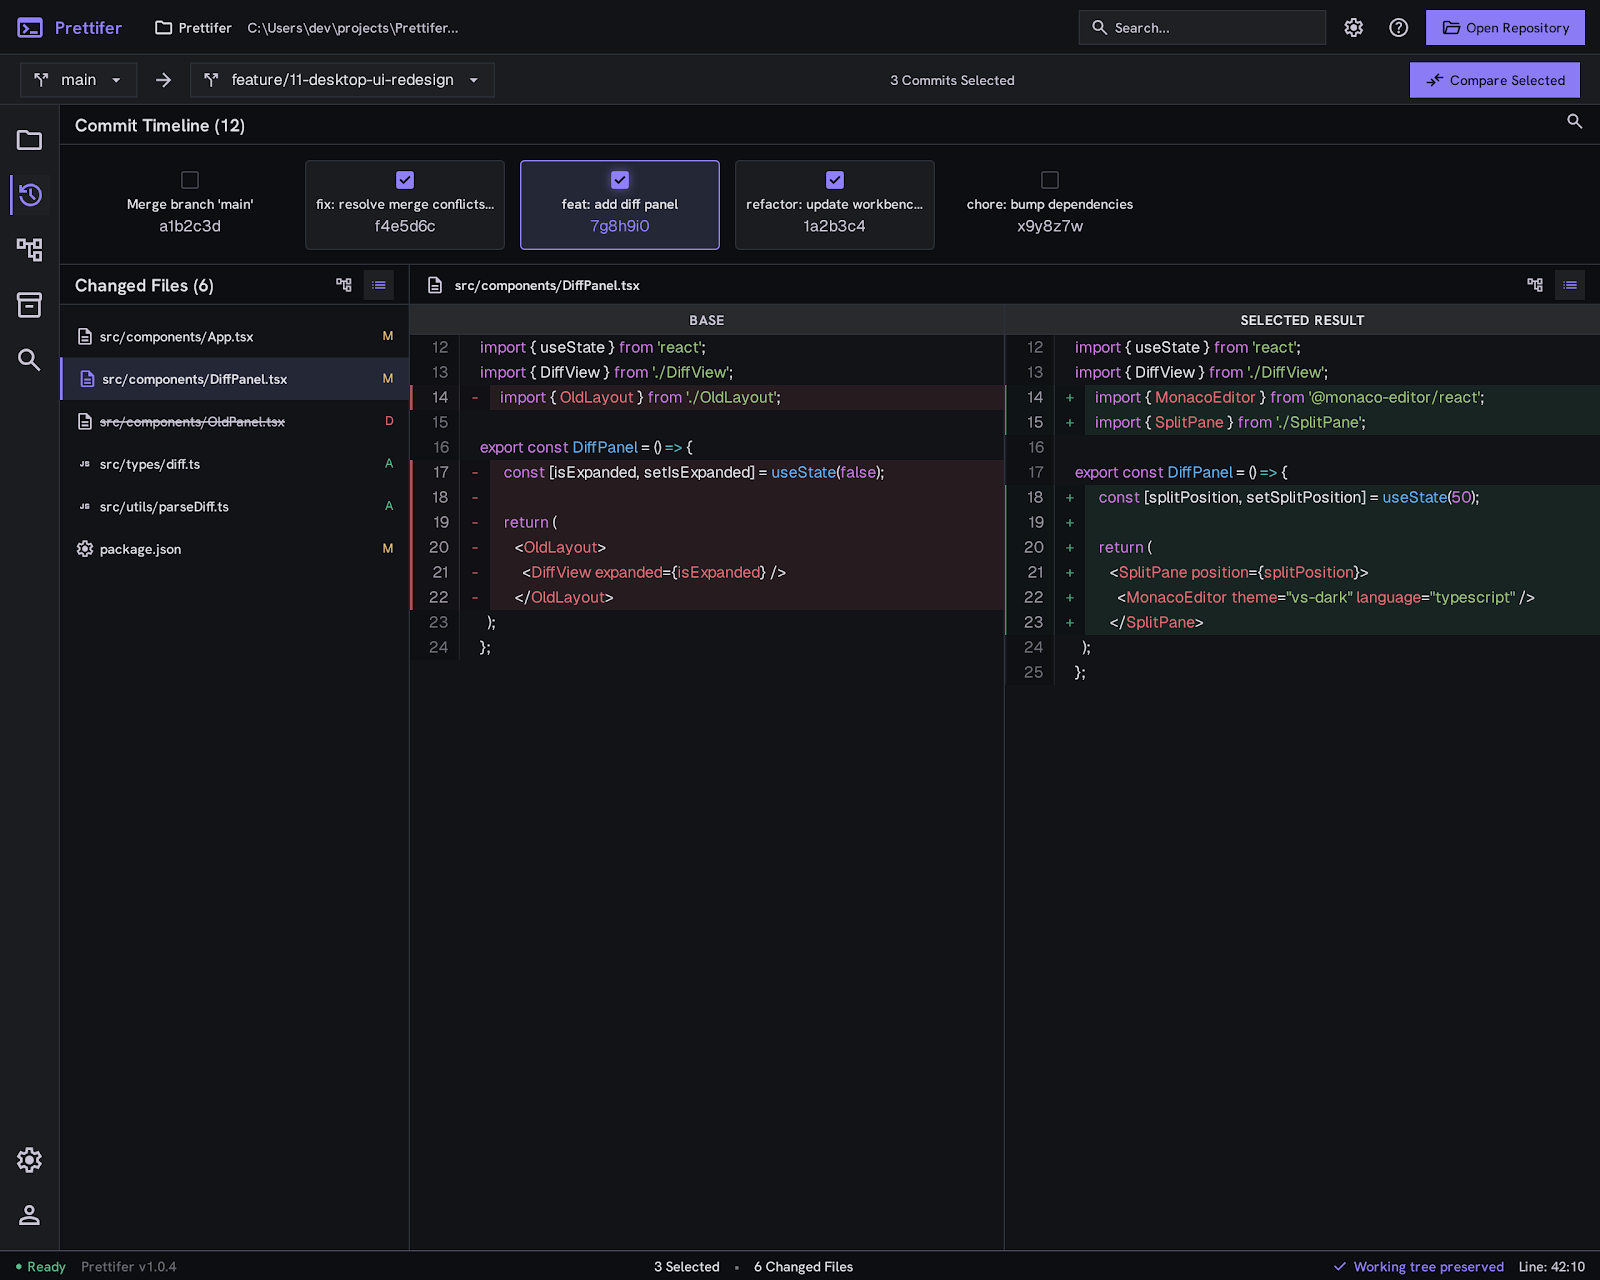
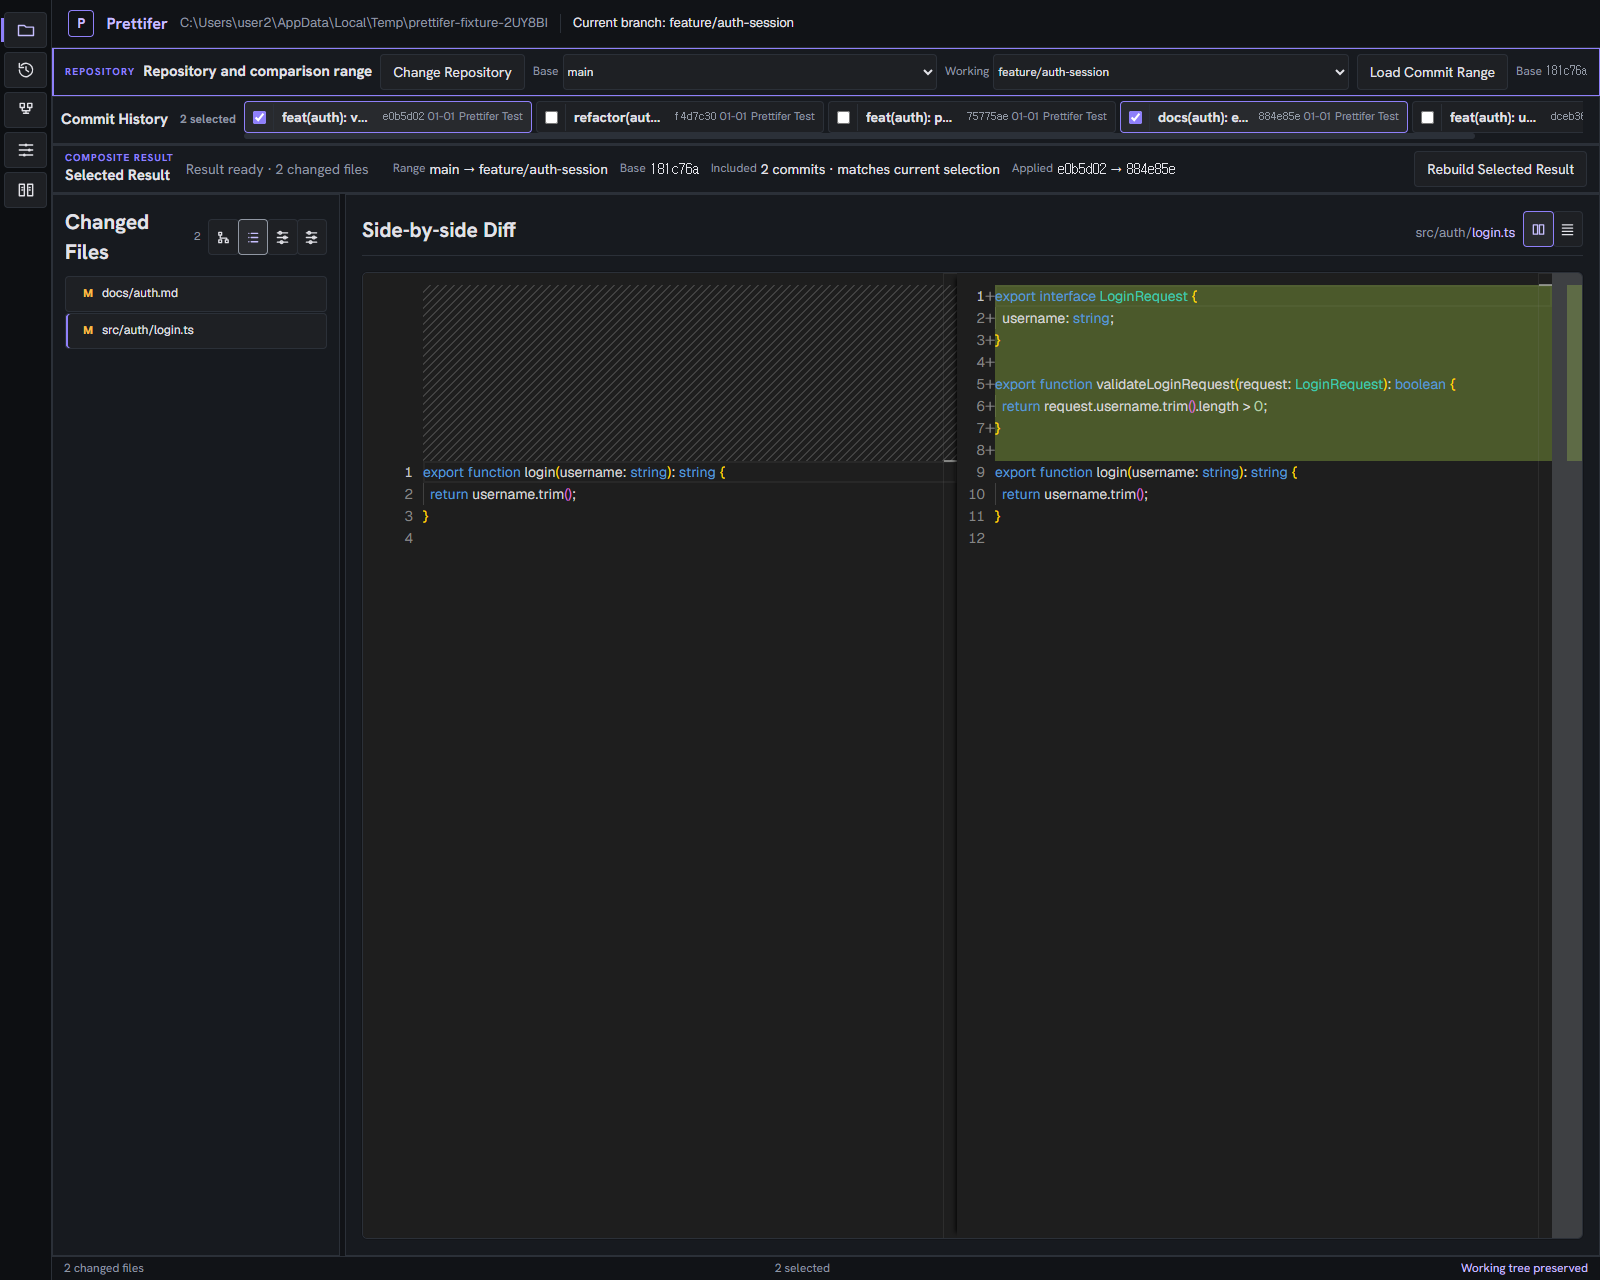
docs: #33 화면 기준에 Config View와 Full Tree 추가 (#81)
- 네 보기 스크린샷을 재생성 스크립트로 만들고 README 표를 채움
- 기존 두 이미지도 함께 갱신, 토글이 둘이던 시점의 화면이었음

diff --git a/test/screenshots/workbench.capture.ts b/test/screenshots/workbench.capture.ts
@@ -1,0 +1,109 @@
+/**
+ * Regenerates the README screen reference images.
+ *
+ * This is a tool, not a check: it drives the packaged application to each view
+ * and writes `docs/assets/`. It is kept out of the end-to-end suite so a normal
+ * test run never rewrites committed images.
+ *
+ *   npm run screenshots
+ */
+import {
+  _electron as electron,
+  expect,
+  test,
+  type JSHandle,
+  type Page,
+} from "@playwright/test";
+import type { BrowserWindow } from "electron";
+import { createRequire } from "node:module";
+import { resolve } from "node:path";
+
+import { createAuthHistoryFixture } from "../support/git-fixture.js";
+
+const require = createRequire(import.meta.url);
+const executablePath = require("electron") as string;
+const applicationPath = resolve(".webpack", "x64", "main", "index-e2e.js");
+
+/** The geometry the committed images already use, so the README table lines up. */
+const VIEWPORT = { width: 1600, height: 1280 };
+
+const assets = (name: string): string =>
+  resolve("docs", "assets", `prettifer-desktop-workbench-${name}.png`);
+
+test("captures the four changed file views", async () => {
+  const fixture = await createAuthHistoryFixture();
+  const application = await electron.launch({
+    executablePath,
+    args: [applicationPath],
+    env: {
+      ...process.env,
+      PRETTIFER_E2E: "1",
+      PRETTIFER_E2E_REPOSITORIES: JSON.stringify([fixture.path]),
+    },
+  });
+
+  try {
+    const page = await application.firstWindow();
+    await page.waitForLoadState("domcontentloaded");
+    const browserWindow = await application.browserWindow(page) as JSHandle<BrowserWindow>;
+    await sizeWindow(browserWindow, page);
+
+    await page.getByRole("button", { name: "Open Repository" }).click();
+    await expect(page.getByText(fixture.path, { exact: true })).toBeVisible();
+    await page.getByRole("button", { name: "Load Commit Range" }).click();
+    await page.getByRole("checkbox", {
+      name: "Include in selected result: docs(auth): explain session lifecycle",
+    }).check();
+    await page.getByRole("checkbox", {
+      name: "Include in selected result: feat(auth): validate login request",
+    }).check();
+    await page.getByRole("button", { name: "Build Selected Result" }).click();
+    await expect(page.getByText(/Result ready · \d+ changed files/u)).toBeVisible();
+    await page.getByRole("button", {
+      name: /View file: src\/auth\/login\.ts/u,
+    }).click();
+    await expect(page.getByText("Loading diff editor…")).toBeHidden();
+
+    await capture(page, "list-view", "List View");
+    await capture(page, "tree-view", "Tree View");
+
+    // Config View needs a rule before it has anything to show.
+    await page.getByRole("button", { name: "Config View" }).click();
+    await page.getByRole("button", { name: "Add a rule" }).click();
+    await page.getByLabel("Path prefix").fill("src/auth");
+    await page.getByLabel("Group name").fill("Auth code");
+    await page.getByRole("button", { name: "Add rule" }).click();
+    await page.getByRole("button", { name: "Close" }).click();
+    await expect(page.getByRole("button", { name: /^Auth code, / })).toBeVisible();
+    await page.screenshot({ path: assets("config-view") });
+
+    await capture(page, "full-tree", "Full Tree");
+  } finally {
+    await application.close();
+    await fixture.dispose();
+  }
+});
+
+async function capture(page: Page, name: string, toggle: string): Promise<void> {
+  await page.getByRole("button", { name: toggle }).click();
+  await expect(page.getByRole("button", { name: toggle }))
+    .toHaveAttribute("aria-pressed", "true");
+  await page.screenshot({ path: assets(name) });
+}
+
+/**
+ * Puts the window at the size the committed images use. The zoom factor is reset
+ * so one CSS pixel is one image pixel and the review area is wide enough that
+ * the diff is not cut off at the right edge.
+ */
+async function sizeWindow(
+  browserWindow: JSHandle<BrowserWindow>,
+  page: Page,
+): Promise<void> {
+  await browserWindow.evaluate((window, viewport) => {
+    window.webContents.setZoomFactor(1);
+    window.setContentSize(viewport.width, viewport.height);
+  }, VIEWPORT);
+  await expect.poll(() => page.evaluate(() => [window.innerWidth, window.innerHeight]))
+    .toEqual([VIEWPORT.width, VIEWPORT.height]);
+}

diff --git a/playwright.screenshots.config.ts b/playwright.screenshots.config.ts
@@ -1,0 +1,15 @@
+import { defineConfig } from "@playwright/test";
+
+/**
+ * Runs the README screen reference capture. It is a separate config so the
+ * end-to-end suite never picks it up and rewrites committed images.
+ */
+export default defineConfig({
+  testDir: "./test/screenshots",
+  testMatch: "**/*.capture.ts",
+  fullyParallel: false,
+  workers: 1,
+  timeout: 120_000,
+  expect: { timeout: 15_000 },
+  reporter: "list",
+});

diff --git a/README.md b/README.md
@@ -185,9 +185,17 @@ src/
 
 ## 화면 기준
 
+`Changed Files`의 네 가지 보기입니다. 이미지는 `npm run screenshots`로 다시 만듭니다.
+
 | Tree View | List View |
 |---|---|
 | ![Tree View](docs/assets/prettifer-desktop-workbench-tree-view.png) | ![List View](docs/assets/prettifer-desktop-workbench-list-view.png) |
+| 변경 파일을 저장소 경로 계층으로 표시 | 변경 파일을 전체 경로 한 행으로 표시 |
+
+| Config View | Full Tree |
+|---|---|
+| ![Config View](docs/assets/prettifer-desktop-workbench-config-view.png) | ![Full Tree](docs/assets/prettifer-desktop-workbench-full-tree.png) |
+| 사용자가 정의한 경로 prefix 규칙으로 묶어 표시 | 저장소 전체 구조 안에서 변경 위치를 표시 |
 
 ## 지원 범위
 
